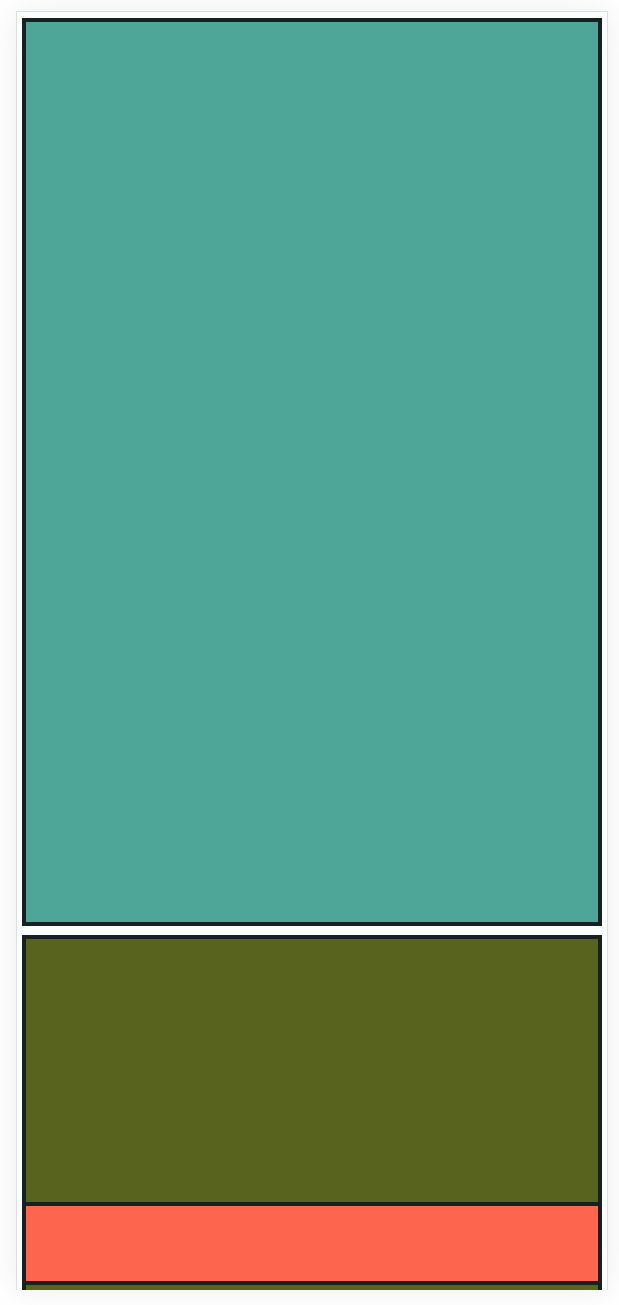
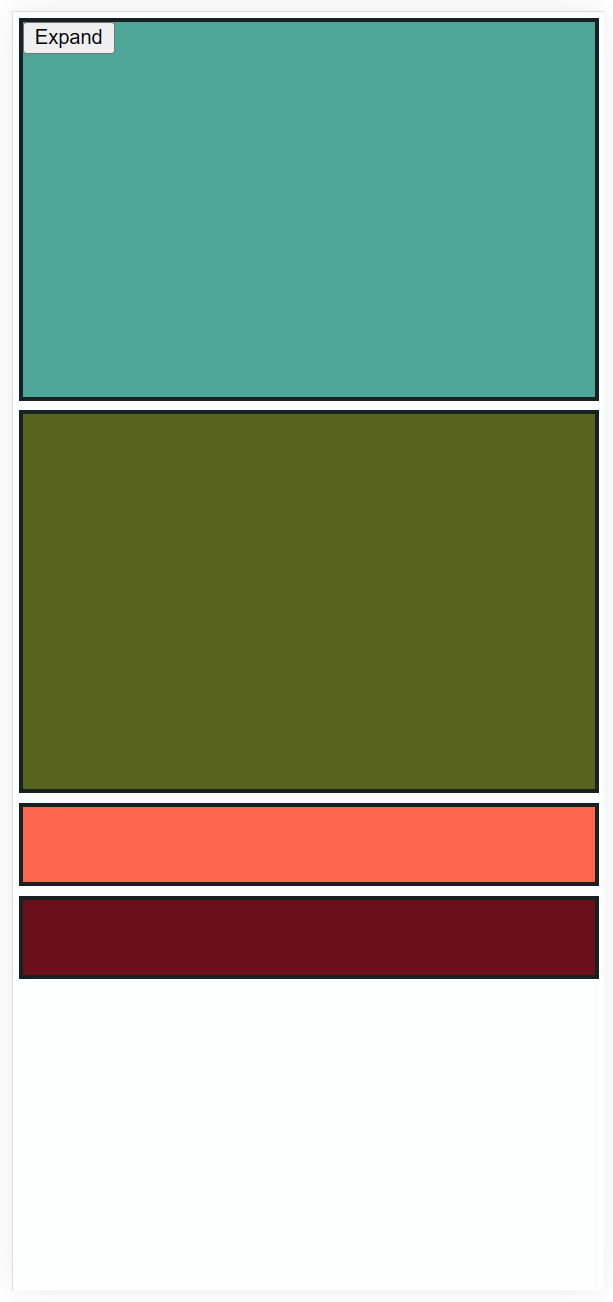
Allow box to expand, add more to second column

diff --git a/src/App.scss b/src/App.scss
@@ -7,6 +7,18 @@ $tablet-width: 768px;
   }
 }
 
+@for $i from 1 through 4 {
+  .order-#{$i} {
+    order: #{$i};
+  }
+
+  @include mobile {
+    .mobile-order-#{$i} {
+      order: #{$i};
+    }
+  }
+}
+
 body {
   margin: 0;
   padding: 0;
@@ -15,28 +27,29 @@ body {
 
 .layout {
   display: flex;
-  height: 800px;
   flex-flow: column wrap;
+  height: 1000px;
 
   @include mobile {
     flex-flow: column;
   }
-}
 
-.col-6 {
-  width: 50%;
-}
+  &> :nth-child(1) {
+    min-height: 100%;
+    flex: 1;
 
-.mobile-col-12 {
-  @include mobile {
-    width: 100%;
+    @include mobile {
+      min-height: initial;
+      flex: 0;
+    }
   }
 }
 
 .footer {
-  width: 50%;
+  order: 4;
 
   @include mobile {
+    order: 3;
     position: sticky;
     bottom: 0;
     width: 100%;
@@ -52,13 +65,23 @@ body {
     background-color: #FE654F;
   }
 
+  &.box--small-alt {
+    height: 50px;
+    background-color: #6B0F1A;
+  }
+
   &.box--medium {
     height: 250px;
     background-color: #58641D;
   }
 
-  &.box--large {
-    height: 600px;
+  &.box--medium-alt {
+    height: 250px;
     background-color: #4EA699;
+  }
+
+  &.box--large {
+    height: 400px;
+    background-color: #B9FFB7;
   }
 }

diff --git a/src/Layout.tsx b/src/Layout.tsx
@@ -1,15 +1,33 @@
+import React from "react";
 import { Box } from "./Box";
 
 export function Layout() {
+  const [collapsed, setCollapsed] = React.useState(true);
+
+  function onClick(e: React.MouseEvent<HTMLButtonElement>) {
+    e.preventDefault();
+    setCollapsed(!collapsed);
+  }
+
   return (
     <div className="layout">
-      <div className="col-6 mobile-col-12">
-        <Box variant="large" />
+      <div className="order-1">
+        <div>
+          <Box variant="medium-alt">
+            <button onClick={onClick}>{collapsed ? 'Expand' : 'Collapse'}</button>
+          </Box>
+          {!collapsed &&
+            <Box variant="large" />
+          }
+        </div>
       </div>
-      <div className="col-6 mobile-col-12">
+      <div className="order-2">
         <Box variant="medium" />
       </div>
-      <div className="footer flex-order-3">
+      <div className="order-3 mobile-order-4">
+        <Box variant="small-alt" />
+      </div>
+      <div className="footer">
         <Box variant="small" />
       </div>
     </div>

diff --git a/src/Box.tsx b/src/Box.tsx
@@ -1,15 +1,25 @@
 import classNames from "classnames"
 
 interface Props {
-  variant: 'small' | 'medium' | 'large';
+  variant: 'small' | 'small-alt' | 'medium' | 'medium-alt' | 'large';
+  children?: JSX.Element | null;
 }
 
-export function Box(props: Props) {
+export function Box({
+  variant,
+  children = null
+}: Props) {
   const classes = classNames('box', {
-    'box--small': props.variant === 'small',
-    'box--medium': props.variant === 'medium',
-    'box--large': props.variant === 'large',
+    'box--small': variant === 'small',
+    'box--small-alt': variant === 'small-alt',
+    'box--medium': variant === 'medium',
+    'box--medium-alt': variant === 'medium-alt',
+    'box--large': variant === 'large',
   });
 
-  return <div className={classes} />
+  return (
+    <div className={classes}>
+      {children}
+    </div>
+  );
 }

diff --git a/README.md b/README.md
@@ -5,9 +5,10 @@ different devices types
 
 ## Cast of Characters
 
-- Teal box ................. Left-aligned on desktop, full-width on mobile
-- Green box ................. Right-aligned on desktop, full-width on mobile
+- Teal box ................. Left-aligned on desktop, full-width on mobile, and has collapsable content
+- Olive box ................. Right-aligned on desktop, full-width on mobile
 - Coral box ................. Right-aligned on desktop, full-width and sticky on mobile
+- Crimson box ................. Right-aligned on desktop, full-width on mobile and swaps places with Coral
 
 ## Demo
 
